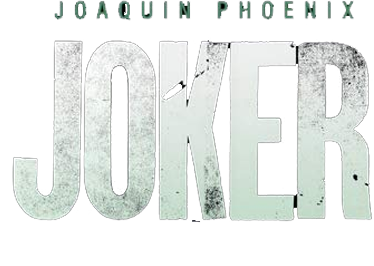
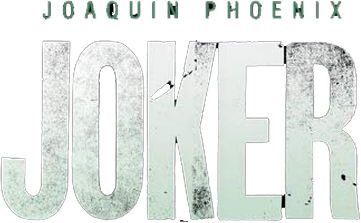
yes

diff --git a/index.css b/index.css
@@ -1,3 +1,5 @@
+
+
 /* ----------------------- TOP NAV BAR ----------------------- */
 .topnav{
     background-color: var(--background);
@@ -48,7 +50,7 @@
     list-style-type: none;
     padding: 0 20px;
     font-family: 'Poppins', sans-serif;
-    font-size: 25px;
+    font-size: 18px;
 }
 
 
@@ -61,8 +63,8 @@
 
 @media (min-width: 1000px){
 html{
-    background-image: url("images/joker1920.png");
     background-repeat: no-repeat;
+    background: url("images/joker1920.png"), rgba(2, 7, 11, 1), no-repeat;
 }
     hr{
         display: none;
@@ -72,6 +74,7 @@ html{
         background: rgb(0,6,1);
         background: linear-gradient(180deg, rgba(0,6,1,1) 30%, rgba(255,255,255,0) 100%); 
         border-bottom: 3px solid rgba(255,255,255,0.2);
+        height: 60px;
     }
 
     .topnav i:not(.box i){
@@ -86,13 +89,13 @@ html{
     .box button{
         margin: 10px;
         background-color: rgba(4, 7, 11, 0.2);
-        height: 60px;
-        width: 60px;
+        height: 40px;
+        width: 40px;
         border-radius: 100%;
     }
 
     .box button i{
-        font-size: 33px;
+        font-size: 23px;
         color: white;
     }
     .box input[type="text"]{
@@ -169,20 +172,41 @@ height: 100%;
 
 /* ----------------------- DESKTOP MOVIE INFO ----------------------- */
 
-
+#desktop-movie-info-container{
+    display: flex;
+    flex-direction: column;
+    align-items: center;
+    width: fit-content;
+    margin: 5% 0 4% 5%;
+}
 
 #desktop-movie-title{
     color: white;
-    background-color: orange;
-    font-size: 2em;
+    font-size: 27px;
+    font-family: 'Jacques Francois', serif;
+    text-transform: uppercase;
 }
 
-#desktop-movie-title ul li{
+#desktop-movie-info-container ul li{
     color: white;
     font-size: 2em;
-    background-color: orange;
+    margin: 0 9px;
+}
+#desktop-movie-info-container ul{
+    display: flex;
+    flex-direction: row;
+    list-style: none;
+    font-family: 'Jost', sans-serif;
+    text-transform: lowercase;
+    font-size: 14px;
 }
 
+
+#desktop-movie-logo{
+    width: fit-content;
+    height: fit-content;
+    margin-bottom: 4%;
+}
 
 @media (max-width: 1000px){
     #desktop-movie-info-container{
@@ -221,12 +245,14 @@ height: 100%;
 
 @media (min-width: 1000px){
     .movie{
-        width: 182px;
-        min-width: 182px;
-        height: 260px;
+        width: 130px;
+        min-width: 130px;
+        height: 185px;
         background-color: red;
-        margin-right: 10px;
+        margin-right: 15px;
     }
+
+  
 
     .categoryname{
         font-size: 2em;

diff --git a/index.html b/index.html
@@ -11,6 +11,9 @@
     <link rel="preconnect" href="https://fonts.googleapis.com">
     <link rel="preconnect" href="https://fonts.gstatic.com" crossorigin>
     <link href="https://fonts.googleapis.com/css2?family=Poppins:ital,wght@0,200;0,300;0,500;1,100;1,200;1,400&display=swap" rel="stylesheet">
+    <link rel="preconnect" href="https://fonts.googleapis.com">
+<link rel="preconnect" href="https://fonts.gstatic.com" crossorigin>
+<link href="https://fonts.googleapis.com/css2?family=Jacques+Francois&family=Jost:wght@300&family=Poppins:ital,wght@0,200;0,300;0,500;1,100;1,200;1,400&display=swap" rel="stylesheet">
         <title>Movie browse</title>
 </head>
 <body>
@@ -57,10 +60,12 @@
 <div id="movieposter"></div>
 <!-- detta ska kunna ändras med java  -->
 <div id="desktop-movie-info-container">
-<img src="images/joker.png" alt="">
+    <div id="desktop-movie-logo">
+<img src="images/joker.png" alt="movie logo">
+</div>
 <h1 id="desktop-movie-title">put on a happy face</h1>
 <ul>
-    <li id="movie-category1">crime/li>
+    <li id="movie-category1">crime</li>
     <li>|</li>
     <li id="movie-category2">psychology</li>
     <li>|</li>
@@ -116,5 +121,11 @@
 </html>
 
 <script>
-    document.getElementById('desktop-movie-title').innerHTML = 
+    // document.getElementById('desktop-movie-title').innerHTML = 
+
+
+    // console.log(document.getElementById('desktop-movie-logo').offsetWidth)
+
+    // if(document.getElementById('desktop-movie-logo'))
+
 </script>
